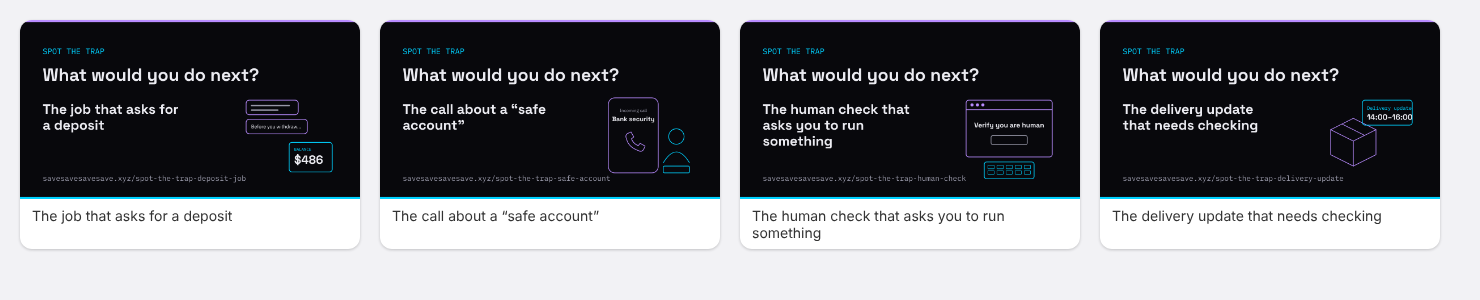
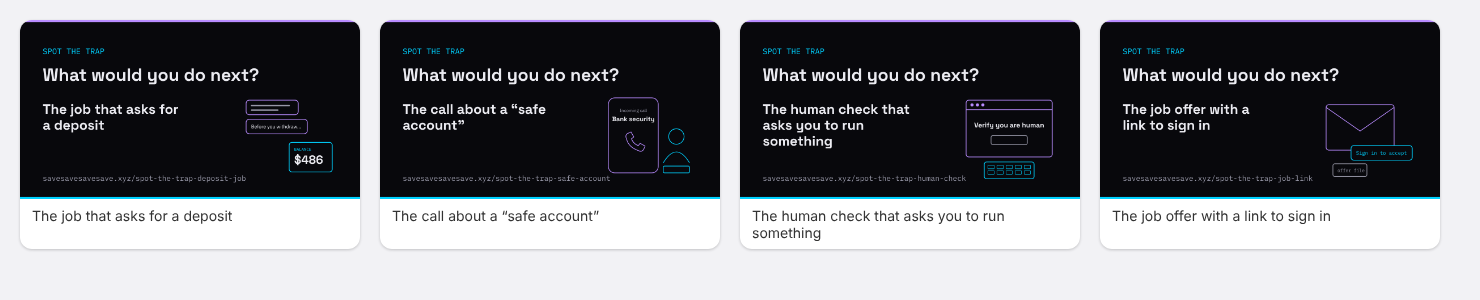
Spot the Trap: replace delivery-update with job-link draft; drop example labels
New scenario awaits content approval (release gate blocks it). Old URL
redirects to the challenge list.

Claude-Session: https://claude.ai/code/session_013DTXsHHSpZCGCiuNQZgPYL

Changed region(s): [[0.8703, 0.33, 0.9635, 0.6], [0.7459, 0.33, 0.8703, 0.45], [0.7459, 0.69, 0.9324, 0.75]]

diff --git a/spot-the-trap-job-link.html b/spot-the-trap-job-link.html
@@ -13,34 +13,34 @@
 <meta http-equiv="Content-Security-Policy" content="default-src 'self'; script-src 'self'; style-src 'self' 'unsafe-inline'; font-src 'self'; img-src 'self' data:; connect-src 'none'; base-uri 'self'; form-action 'none'; frame-src 'none';">
 <meta name="viewport" content="width=device-width, initial-scale=1.0">
 <meta name="author" content="Stefan Tsezarov">
-<meta name="description" content="Spot the Trap: The delivery update that needs checking. Read an invented message, choose your next step, then see the explanation.">
-<title>The delivery update that needs checking — Spot the Trap — SaveSaveSaveSave</title>
-<link rel="canonical" href="https://savesavesavesave.xyz/spot-the-trap-delivery-update">
+<meta name="description" content="Spot the Trap: The job offer with a link to sign in. Read an invented message, choose your next step, then see the explanation.">
+<title>The job offer with a link to sign in — Spot the Trap — SaveSaveSaveSave</title>
+<link rel="canonical" href="https://savesavesavesave.xyz/spot-the-trap-job-link">
 <!-- SEO:BEGIN — generated by seo.js, do not edit by hand -->
 <meta property="og:type" content="website">
 <meta property="og:site_name" content="SaveSaveSaveSave">
 <meta property="og:locale" content="en">
-<meta property="og:url" content="https://savesavesavesave.xyz/spot-the-trap-delivery-update">
-<meta property="og:title" content="The delivery update that needs checking — Spot the Trap">
-<meta property="og:description" content="Spot the Trap: The delivery update that needs checking. Read an invented message, choose your next step, then see the explanation.">
-<meta property="og:image" content="https://savesavesavesave.xyz/spot-the-trap-delivery-update.png">
+<meta property="og:url" content="https://savesavesavesave.xyz/spot-the-trap-job-link">
+<meta property="og:title" content="The job offer with a link to sign in — Spot the Trap">
+<meta property="og:description" content="Spot the Trap: The job offer with a link to sign in. Read an invented message, choose your next step, then see the explanation.">
+<meta property="og:image" content="https://savesavesavesave.xyz/spot-the-trap-job-link.png">
 <meta property="og:image:width" content="1200">
 <meta property="og:image:height" content="630">
-<meta property="og:image:alt" content="Would you spot the trap? The delivery update that needs checking">
+<meta property="og:image:alt" content="Would you spot the trap? The job offer with a link to sign in">
 <meta name="twitter:card" content="summary_large_image">
-<meta name="twitter:title" content="The delivery update that needs checking — Spot the Trap">
-<meta name="twitter:description" content="Spot the Trap: The delivery update that needs checking. Read an invented message, choose your next step, then see the explanation.">
-<meta name="twitter:image" content="https://savesavesavesave.xyz/spot-the-trap-delivery-update.png">
+<meta name="twitter:title" content="The job offer with a link to sign in — Spot the Trap">
+<meta name="twitter:description" content="Spot the Trap: The job offer with a link to sign in. Read an invented message, choose your next step, then see the explanation.">
+<meta name="twitter:image" content="https://savesavesavesave.xyz/spot-the-trap-job-link.png">
 <script type="application/ld+json">
 {
   "@context": "https://schema.org",
   "@graph": [
     {
       "@type": "WebPage",
-      "@id": "https://savesavesavesave.xyz/spot-the-trap-delivery-update#page",
-      "name": "The delivery update that needs checking — Spot the Trap",
-      "description": "Spot the Trap: The delivery update that needs checking. Read an invented message, choose your next step, then see the explanation.",
-      "url": "https://savesavesavesave.xyz/spot-the-trap-delivery-update",
+      "@id": "https://savesavesavesave.xyz/spot-the-trap-job-link#page",
+      "name": "The job offer with a link to sign in — Spot the Trap",
+      "description": "Spot the Trap: The job offer with a link to sign in. Read an invented message, choose your next step, then see the explanation.",
+      "url": "https://savesavesavesave.xyz/spot-the-trap-job-link",
       "inLanguage": "en",
       "datePublished": "2026-10-21",
       "dateModified": "2026-10-21",
@@ -61,7 +61,7 @@
     },
     {
       "@type": "BreadcrumbList",
-      "@id": "https://savesavesavesave.xyz/spot-the-trap-delivery-update#breadcrumb",
+      "@id": "https://savesavesavesave.xyz/spot-the-trap-job-link#breadcrumb",
       "itemListElement": [
         {
           "@type": "ListItem",
@@ -72,7 +72,7 @@
         {
           "@type": "ListItem",
           "position": 2,
-          "name": "Spot the Trap: The delivery update that needs checking"
+          "name": "Spot the Trap: The job offer with a link to sign in"
         }
       ]
     }
@@ -152,22 +152,22 @@
 <div class="paper-wrap">
   <article class="paper">
     <p class="eyebrow">Spot the Trap · Challenge 4 of 4</p>
-    <h1 class="title">The delivery update that needs checking</h1>
-    <p class="stt-scene">You are expecting a parcel today. A delivery update arrives by text.</p>
+    <h1 class="title">The job offer with a link to sign in</h1>
+    <p class="stt-scene">You have been applying for jobs online. An email arrives from a recruiter you do not recognise.</p>
 
-    <section class="stt-example" aria-labelledby="stt-ex-label">
-      <p class="stt-label" id="stt-ex-label">Invented message · Text message</p>
+    <section class="stt-example" aria-label="The message">
       <div class="stt-message" id="stt-message">
-      <div class="stt-bubble"><p class="stt-from">Delivery update</p><p>Your parcel is due today between 14:00 and 16:00. Tracking reference: EXAMPLE-2048. You can check its progress in the delivery app.</p></div>
+      <div class="stt-bubble"><p class="stt-from">Talent team</p><p>Congratulations! <span class="sign">You have been selected for a remote assistant role, no interview needed.<sup class="sign-n" hidden>1</sup></span> <span class="sign">To accept, sign in at hr-onboarding.example/start with your email address and email password.<sup class="sign-n" hidden>2</sup></span> <span class="sign">Then download and open the attached offer file.<sup class="sign-n" hidden>3</sup></span> <span class="sign">Add your bank card details so we can set up your first salary payment.<sup class="sign-n" hidden>4</sup></span> <span class="sign">This offer expires in 24 hours.<sup class="sign-n" hidden>5</sup></span></p></div>
       </div>
     </section>
 
     <form class="stt-form" id="stt-form" action="#" novalidate>
       <fieldset>
         <legend>What would you do next?</legend>
-        <label class="stt-opt"><input type="radio" name="stt-choice" value="A"> <span><span class="stt-key">A.</span> Assume it is fake because delivery messages are often scams.</span></label>
-        <label class="stt-opt"><input type="radio" name="stt-choice" value="B"> <span><span class="stt-key">B.</span> Open the delivery app I already use and compare the tracking details with my order.</span></label>
-        <label class="stt-opt"><input type="radio" name="stt-choice" value="C"> <span><span class="stt-key">C.</span> Reply with my address to confirm the delivery.</span></label>
+        <label class="stt-opt"><input type="radio" name="stt-choice" value="A"> <span><span class="stt-key">A.</span> Follow the link and sign in to secure the job.</span></label>
+        <label class="stt-opt"><input type="radio" name="stt-choice" value="B"> <span><span class="stt-key">B.</span> Open the attachment first to read the offer.</span></label>
+        <label class="stt-opt"><input type="radio" name="stt-choice" value="C"> <span><span class="stt-key">C.</span> Reply and ask the recruiter whether the link is safe.</span></label>
+        <label class="stt-opt"><input type="radio" name="stt-choice" value="D"> <span><span class="stt-key">D.</span> Leave the link and attachment alone, and check the role on the company website I find myself.</span></label>
       </fieldset>
       <div class="stt-reveal-row">
         <button type="button" class="stt-btn" id="stt-reveal">See the explanation</button>
@@ -179,38 +179,45 @@
     <div class="stt-verdict" id="stt-verdict">
       <h2 id="stt-expl-heading" tabindex="-1">Your answer</h2>
       <div class="stt-yours" id="stt-your-choice"></div>
-      <div class="rule-box"><p><strong>Next time:</strong> Check an ordinary-looking message too. You do not have to decide whether it is genuine from its appearance alone.</p></div>
+      <div class="rule-box"><p><strong>Next time:</strong> Do not click links, open attachments or share passwords or card details from a job offer until you have checked the employer yourself.</p></div>
     </div>
     <p class="sr-only" id="stt-change-status" role="status" aria-live="polite"></p>
     <details class="stt-more">
       <summary>Each option explained</summary>
     <ul class="stt-options">
-      <li data-key="A" data-recommended="false" data-choice="Assume it is fake because delivery messages are often scams." data-feedback="There is not enough here to decide that. Looking ordinary does not verify a message, and arriving by text does not make it fraudulent."><strong>A:</strong> There is not enough here to decide that. Looking ordinary does not verify a message, and arriving by text does not make it fraudulent.</li>
-      <li data-key="B" data-recommended="true" data-choice="Open the delivery app I already use and compare the tracking details with my order." data-feedback="Check the order through a channel you already use. Matching details can confirm the delivery update; a new payment or information request still needs its own check."><strong>B — recommended:</strong> Check the order through a channel you already use. Matching details can confirm the delivery update; a new payment or information request still needs its own check.</li>
-      <li data-key="C" data-recommended="false" data-choice="Reply with my address to confirm the delivery." data-feedback="The message has not established who would receive your reply. Use the delivery company&#39;s established channel instead."><strong>C:</strong> The message has not established who would receive your reply. Use the delivery company&#39;s established channel instead.</li>
+      <li data-key="A" data-recommended="false" data-choice="Follow the link and sign in to secure the job." data-feedback="A sign-in page reached from an unexpected message can be a copy built to capture your password. A job offer does not make the link safe."><strong>A:</strong> A sign-in page reached from an unexpected message can be a copy built to capture your password. A job offer does not make the link safe.</li>
+      <li data-key="B" data-recommended="false" data-choice="Open the attachment first to read the offer." data-feedback="An attachment from a sender you have not verified can install malware. Opening it gives the sender what they want before you know who they are."><strong>B:</strong> An attachment from a sender you have not verified can install malware. Opening it gives the sender what they want before you know who they are.</li>
+      <li data-key="C" data-recommended="false" data-choice="Reply and ask the recruiter whether the link is safe." data-feedback="The sender cannot confirm their own link. Any reassurance comes from the same unverified source."><strong>C:</strong> The sender cannot confirm their own link. Any reassurance comes from the same unverified source.</li>
+      <li data-key="D" data-recommended="true" data-choice="Leave the link and attachment alone, and check the role on the company website I find myself." data-feedback="Check through a route you find yourself. A real employer will still have the role, or a way to reach the recruiter, there."><strong>D — recommended:</strong> Check through a route you find yourself. A real employer will still have the role, or a way to reach the recruiter, there.</li>
     </ul>
     </details>
     <details class="stt-more">
-      <summary>What to check</summary>
-    <p>You were expecting a parcel, the message requests no payment, and it offers no link to follow. Those details make the update plausible. They do not verify its sender. The next step is comparison with your actual order.</p>
+      <summary>Details to notice</summary>
+    <ol class="stt-details">
+      <li>A job offered without an interview or any checking of you needs checking itself.</li>
+      <li>The link asks for your email password, which no employer needs.</li>
+      <li>An unexpected attachment can carry malware.</li>
+      <li>Card details are requested before you have verified the employer.</li>
+      <li>The short deadline discourages time to check.</li>
+    </ol>
     </details>
     <details class="stt-more">
       <summary>About this pattern</summary>
-    <p>FTC guidance covers fake delivery notifications and recommends contacting a company through a known website or phone number. It does not authenticate this invented notice. <a href="https://consumer.ftc.gov/articles/how-recognize-and-report-spam-text-messages" rel="noopener noreferrer">FTC: Recognising and reporting spam texts</a></p>
+    <p>The FTC explains how phishing messages use links and attachments to steal passwords and account details, and how to check a message through a source you trust. <a href="https://consumer.ftc.gov/articles/how-recognize-avoid-phishing-scams" rel="noopener noreferrer">FTC: How to recognize and avoid phishing scams</a></p>
     <p>The source documents the technique, not this invented example.</p>
-    <p class="stt-review">Version 1 · content last reviewed <time datetime="2026-10-21">21 October 2026</time></p>
+    <p class="stt-review">Version 1 · Draft — awaiting content review</p>
     <p>Have a message of your own? <a href="index.html">The message checker</a> looks for specific warning patterns. It cannot confirm who sent it or whether a request is genuine.</p>
     </details>
     </section>
-    <p class="stt-learn"><a class="stt-btn stt-learn-btn" href="https://www.google.com/search?q=fake+delivery+text+message+scam" target="_blank" rel="noopener noreferrer">Learn more: search “fake delivery text message scam”</a><br><span class="stt-learn-note">Opens a Google search in a new tab. Results are not checked by this site.</span></p>
+    <p class="stt-learn"><a class="stt-btn stt-learn-btn" href="https://www.google.com/search?q=job+offer+phishing+link+scam" target="_blank" rel="noopener noreferrer">Learn more: search “job offer phishing link scam”</a><br><span class="stt-learn-note">Opens a Google search in a new tab. Results are not checked by this site.</span></p>
   </article>
   <section class="paper stt-share" id="stt-share-section" aria-labelledby="stt-share-heading" hidden>
     <h2 id="stt-share-heading">Share or try another</h2>
     <div class="stt-share-row">
-      <button type="button" class="stt-btn" id="stt-share" data-url="https://savesavesavesave.xyz/spot-the-trap-delivery-update" data-text="Would you spot the trap?
-The delivery update that needs checking
+      <button type="button" class="stt-btn" id="stt-share" data-url="https://savesavesavesave.xyz/spot-the-trap-job-link" data-text="Would you spot the trap?
+The job offer with a link to sign in
 Try the challenge at SaveSaveSaveSave.">Share this challenge</button>
-      <a href="spot-the-trap-delivery-update.png" download>Download the card</a>
+      <a href="spot-the-trap-job-link.png" download>Download the card</a>
       <span id="stt-share-status" aria-live="polite"></span>
     </div>
     <p>Next: <a href="spot-the-trap-deposit-job.html">The job that asks for a deposit</a> · <a href="spot-the-trap.html">All challenges</a></p>

diff --git a/challenges.js b/challenges.js
@@ -129,33 +129,42 @@ const CHALLENGES = [
     approvedHash: '4e9b8f911420d57c',
   },
   {
-    id: 'delivery-update',
+    id: 'job-link',
     version: 1,
-    title: 'The delivery update that needs checking',
-    channel: 'Text message',
-    scene: 'You are expecting a parcel today. A delivery update arrives by text.',
+    title: 'The job offer with a link to sign in',
+    channel: 'Email',
+    scene: 'You have been applying for jobs online. An email arrives from a recruiter you do not recognise.',
     exchangeLabel: 'Invented message',
+    // The address is written as plain text on a .example domain. The page
+    // never makes it a link (challenge.test.js checks).
     messages: [
-      { from: 'Delivery update', parts: ['Your parcel is due today between 14:00 and 16:00. Tracking reference: EXAMPLE-2048. You can check its progress in the delivery app.'] },
+      { from: 'Talent team', parts: ['Congratulations! ', { mark: 1, text: 'You have been selected for a remote assistant role, no interview needed.' }, ' ', { mark: 2, text: 'To accept, sign in at hr-onboarding.example/start with your email address and email password.' }, ' ', { mark: 3, text: 'Then download and open the attached offer file.' }, ' ', { mark: 4, text: 'Add your bank card details so we can set up your first salary payment.' }, ' ', { mark: 5, text: 'This offer expires in 24 hours.' }] },
     ],
     choices: [
-      { key: 'A', text: 'Assume it is fake because delivery messages are often scams.', feedback: 'There is not enough here to decide that. Looking ordinary does not verify a message, and arriving by text does not make it fraudulent.' },
-      { key: 'B', text: 'Open the delivery app I already use and compare the tracking details with my order.', recommended: true, feedback: 'Check the order through a channel you already use. Matching details can confirm the delivery update; a new payment or information request still needs its own check.' },
-      { key: 'C', text: 'Reply with my address to confirm the delivery.', feedback: "The message has not established who would receive your reply. Use the delivery company's established channel instead." },
+      { key: 'A', text: 'Follow the link and sign in to secure the job.', feedback: 'A sign-in page reached from an unexpected message can be a copy built to capture your password. A job offer does not make the link safe.' },
+      { key: 'B', text: 'Open the attachment first to read the offer.', feedback: 'An attachment from a sender you have not verified can install malware. Opening it gives the sender what they want before you know who they are.' },
+      { key: 'C', text: 'Reply and ask the recruiter whether the link is safe.', feedback: 'The sender cannot confirm their own link. Any reassurance comes from the same unverified source.' },
+      { key: 'D', text: 'Leave the link and attachment alone, and check the role on the company website I find myself.', recommended: true, feedback: 'Check through a route you find yourself. A real employer will still have the role, or a way to reach the recruiter, there.' },
     ],
-    detailsHeading: 'What to check',
-    details: [],
-    note: 'You were expecting a parcel, the message requests no payment, and it offers no link to follow. Those details make the update plausible. They do not verify its sender. The next step is comparison with your actual order.',
-    remember: 'Check an ordinary-looking message too. You do not have to decide whether it is genuine from its appearance alone.',
+    detailsHeading: 'Details to notice',
+    details: [
+      'A job offered without an interview or any checking of you needs checking itself.',
+      'The link asks for your email password, which no employer needs.',
+      'An unexpected attachment can carry malware.',
+      'Card details are requested before you have verified the employer.',
+      'The short deadline discourages time to check.',
+    ],
+    note: null,
+    remember: 'Do not click links, open attachments or share passwords or card details from a job offer until you have checked the employer yourself.',
     source: {
-      text: 'FTC guidance covers fake delivery notifications and recommends contacting a company through a known website or phone number. It does not authenticate this invented notice.',
-      label: 'FTC: Recognising and reporting spam texts',
-      url: 'https://consumer.ftc.gov/articles/how-recognize-and-report-spam-text-messages',
+      text: 'The FTC explains how phishing messages use links and attachments to steal passwords and account details, and how to check a message through a source you trust.',
+      label: 'FTC: How to recognize and avoid phishing scams',
+      url: 'https://consumer.ftc.gov/articles/how-recognize-avoid-phishing-scams',
     },
-    // Approved by Stefan on 21 October 2026 (content and source). The hash
-    // is the wording approved; any material change needs a new review.
-    reviewed: '2026-10-21',
-    approvedHash: 'c49bcfe464ba5faf',
+    // Draft. Not approved: a release build refuses to run until Stefan
+    // reviews this scenario and its source.
+    reviewed: null,
+    approvedHash: null,
   },
 ];
 

diff --git a/guide-examples.test.js b/guide-examples.test.js
@@ -570,7 +570,7 @@ if (fs.existsSync(guidePath)) {
     'privacy.html', 'terms.html', 'honeypot-tokens.html', 'invisible-characters.html',
     'prompt-injection.html', 'seed-phrase-phishing.html', 'disguised-links.html',
     'sanctioned-addresses.html', 'address-poisoning.html', 'ai-leftovers.html', 'agent-second-opinion.html', 'support.html', 'tools.html', 'agents.html', 'about.html',
-    'spot-the-trap.html', 'spot-the-trap-deposit-job.html', 'spot-the-trap-safe-account.html', 'spot-the-trap-human-check.html', 'spot-the-trap-delivery-update.html'];
+    'spot-the-trap.html', 'spot-the-trap-deposit-job.html', 'spot-the-trap-safe-account.html', 'spot-the-trap-human-check.html', 'spot-the-trap-job-link.html'];
 
   for (const f of SUBPAGES) {
     const fp = path.join(__dirname, f);
@@ -668,7 +668,7 @@ if (fs.existsSync(guidePath)) {
       'privacy.html', 'terms.html', 'honeypot-tokens.html', 'invisible-characters.html',
       'prompt-injection.html', 'seed-phrase-phishing.html', 'disguised-links.html',
     'sanctioned-addresses.html', 'address-poisoning.html', 'ai-leftovers.html', 'agent-second-opinion.html', 'support.html', 'tools.html', 'agents.html', 'about.html',
-    'spot-the-trap.html', 'spot-the-trap-deposit-job.html', 'spot-the-trap-safe-account.html', 'spot-the-trap-human-check.html', 'spot-the-trap-delivery-update.html'];
+    'spot-the-trap.html', 'spot-the-trap-deposit-job.html', 'spot-the-trap-safe-account.html', 'spot-the-trap-human-check.html', 'spot-the-trap-job-link.html'];
     const referenced = new Set();
     for (const f of PAGES) {
       const fp = path.join(__dirname, f);
@@ -728,7 +728,7 @@ if (fs.existsSync(guidePath)) {
     'privacy.html', 'terms.html', 'honeypot-tokens.html', 'invisible-characters.html',
     'prompt-injection.html', 'seed-phrase-phishing.html', 'disguised-links.html',
     'sanctioned-addresses.html', 'address-poisoning.html', 'ai-leftovers.html', 'agent-second-opinion.html', 'support.html', 'tools.html', 'agents.html', 'about.html',
-    'spot-the-trap.html', 'spot-the-trap-deposit-job.html', 'spot-the-trap-safe-account.html', 'spot-the-trap-human-check.html', 'spot-the-trap-delivery-update.html'];
+    'spot-the-trap.html', 'spot-the-trap-deposit-job.html', 'spot-the-trap-safe-account.html', 'spot-the-trap-human-check.html', 'spot-the-trap-job-link.html'];
 
   for (const f of PAGES) {
     const fp = path.join(__dirname, f);

diff --git a/challenge.test.js b/challenge.test.js
@@ -30,7 +30,7 @@ const marksOf = (c) => c.messages.flatMap(m => [m.from].concat(m.parts)).filter(
 const BRANDS = /\b(binance|coinbase|metamask|paypal|dhl|ups|fedex|amazon|microsoft|google|apple|whatsapp|telegram|revolut|wise|visa|mastercard|hsbc|barclays|chase|dsk|unicredit|fibank|ftc)\b/i;
 
 console.log('== Scenario content ==');
-check('there are four starter scenarios', CHALLENGES.length === 4, String(CHALLENGES.length));
+check('there are four scenarios', CHALLENGES.length === 4, String(CHALLENGES.length));
 check('ids are unique', new Set(CHALLENGES.map(c => c.id)).size === CHALLENGES.length);
 for (const c of CHALLENGES) {
   const id = c.id;
@@ -59,10 +59,6 @@ for (const c of CHALLENGES) {
 }
 check('the recommended answer is not always in the same position',
   new Set(CHALLENGES.map(c => c.choices.find(x => x.recommended).key)).size > 1);
-check('at least one ordinary-looking round with nothing to highlight',
-  CHALLENGES.some(c => c.details.length === 0 && marksOf(c).length === 0));
-check('the ordinary-looking round is not called genuine',
-  CHALLENGES.filter(c => c.details.length === 0).every(c => !/\bgenuine\b/i.test(c.title + c.scene + c.exchangeLabel)));
 
 console.log('\n== Generated pages ==');
 let upToDate = true;
@@ -178,6 +174,8 @@ for (const f of pages) {
 console.log('\n== Layout: verdict, collapsible detail, learn more ==');
 for (const c of CHALLENGES) {
   const h = read('spot-the-trap-' + c.id + '.html');
+  check(c.id + ': no "Invented …" label above the message', !h.includes(c.exchangeLabel + ' · '));
+  check(c.id + ': no web address in the message is a link', !/<a [^>]*href="[^"]*\.example/.test(h));
   check(c.id + ': details and source are collapsed by default',
     /<details class="stt-more">\s*<summary>About this pattern<\/summary>/.test(h) && !/<details[^>]* open/.test(h)
     && h.includes('<summary>' + c.detailsHeading + '</summary>'));

diff --git a/spot-the-trap-human-check.html b/spot-the-trap-human-check.html
@@ -155,8 +155,7 @@
     <h1 class="title">The human check that asks you to run something</h1>
     <p class="stt-scene">You follow a link to a document. Before it opens, a page displays these instructions.</p>
 
-    <section class="stt-example" aria-labelledby="stt-ex-label">
-      <p class="stt-label" id="stt-ex-label">Invented page — illustration only. Do not follow these steps. · Web page</p>
+    <section class="stt-example" aria-label="The message">
       <div class="stt-message" id="stt-message">
       <div class="stt-bubble"><p class="stt-from">Verify you are human</p><p><span class="sign">Open Windows Run using Windows + R.<sup class="sign-n" hidden>1</sup></span> <span class="sign">Paste using Ctrl + V, then press Enter.<sup class="sign-n" hidden>2</sup></span></p></div>
       <div class="stt-bubble"><p>Verification reference: 88412. <span class="sign">Complete this step to continue.<sup class="sign-n" hidden>3</sup></span></p></div>
@@ -219,7 +218,7 @@ Try the challenge at SaveSaveSaveSave.">Share this challenge</button>
       <a href="spot-the-trap-human-check.png" download>Download the card</a>
       <span id="stt-share-status" aria-live="polite"></span>
     </div>
-    <p>Next: <a href="spot-the-trap-delivery-update.html">The delivery update that needs checking</a> · <a href="spot-the-trap.html">All challenges</a></p>
+    <p>Next: <a href="spot-the-trap-job-link.html">The job offer with a link to sign in</a> · <a href="spot-the-trap.html">All challenges</a></p>
   </section>
 </div>
 

diff --git a/apply-ads.js b/apply-ads.js
@@ -89,7 +89,7 @@ const AD_POLICY = {
   'spot-the-trap-deposit-job.html': { enabled: false, reason: 'Spot the Trap challenge. No advertising, analytics or third-party script on pages that teach people to distrust what a message shows them. Decided 21 October 2026.' },
   'spot-the-trap-safe-account.html': { enabled: false, reason: 'Spot the Trap challenge. No advertising, analytics or third-party script on pages that teach people to distrust what a message shows them. Decided 21 October 2026.' },
   'spot-the-trap-human-check.html': { enabled: false, reason: 'Spot the Trap challenge. No advertising, analytics or third-party script on pages that teach people to distrust what a message shows them. Decided 21 October 2026.' },
-  'spot-the-trap-delivery-update.html': { enabled: false, reason: 'Spot the Trap challenge. No advertising, analytics or third-party script on pages that teach people to distrust what a message shows them. Decided 21 October 2026.' },
+  'spot-the-trap-job-link.html': { enabled: false, reason: 'Spot the Trap challenge. No advertising, analytics or third-party script on pages that teach people to distrust what a message shows them. Decided 21 October 2026.' },
 };
 
 const PAGES = Object.keys(AD_POLICY);

diff --git a/seo.js b/seo.js
@@ -69,7 +69,7 @@ const PAGES = {
   'spot-the-trap-deposit-job.html': { type: 'page', crumb: 'Spot the Trap: The job that asks for a deposit', image: 'spot-the-trap-deposit-job.png', imageAlt: 'Would you spot the trap? The job that asks for a deposit' },
   'spot-the-trap-safe-account.html': { type: 'page', crumb: 'Spot the Trap: The call about a safe account', image: 'spot-the-trap-safe-account.png', imageAlt: 'Would you spot the trap? The call about a safe account' },
   'spot-the-trap-human-check.html': { type: 'page', crumb: 'Spot the Trap: The human check that asks you to run something', image: 'spot-the-trap-human-check.png', imageAlt: 'Would you spot the trap? The human check that asks you to run something' },
-  'spot-the-trap-delivery-update.html': { type: 'page', crumb: 'Spot the Trap: The delivery update that needs checking', image: 'spot-the-trap-delivery-update.png', imageAlt: 'Would you spot the trap? The delivery update that needs checking' },
+  'spot-the-trap-job-link.html': { type: 'page', crumb: 'Spot the Trap: The job offer with a link to sign in', image: 'spot-the-trap-job-link.png', imageAlt: 'Would you spot the trap? The job offer with a link to sign in' },
 };
 
 const GUIDE_ORDER = [

diff --git a/live.test.js b/live.test.js
@@ -90,7 +90,7 @@ const ADS_OFF = ['/index.html', '/about.html', '/privacy.html', '/terms.html', '
                  '/prompt-injection.html', '/seed-phrase-phishing.html',
                  '/disguised-links.html', '/sanctioned-addresses.html',
                  '/spot-the-trap.html', '/spot-the-trap-deposit-job.html', '/spot-the-trap-safe-account.html',
-                 '/spot-the-trap-human-check.html', '/spot-the-trap-delivery-update.html'];
+                 '/spot-the-trap-human-check.html', '/spot-the-trap-job-link.html'];
 
 // Must not be reachable. The .git paths are the ones that made an
 // exclusion list decorative; the rest are documents and source that the
@@ -154,7 +154,7 @@ const MUST_404 = [
 
   section('Spot the Trap pages run no third-party code');
   {
-    const SCENARIOS = ['deposit-job', 'safe-account', 'human-check', 'delivery-update'];
+    const SCENARIOS = ['deposit-job', 'safe-account', 'human-check', 'job-link'];
     const pagesStt = ['/spot-the-trap'].concat(SCENARIOS.map(id => '/spot-the-trap-' + id));
     for (const base of pagesStt) {
       for (const p of [base, base + '.html']) {

diff --git a/spot-the-trap.html b/spot-the-trap.html
@@ -164,7 +164,7 @@
       <li><a href="spot-the-trap-deposit-job.html">1. The job that asks for a deposit</a><br>An unexpected chat message offers online work. You decide to hear more. Later, after completing a set of tasks, the recruiter sends another message.</li>
       <li><a href="spot-the-trap-safe-account.html">2. The call about a “safe account”</a><br>A caller says they work for your bank. Your phone displays the bank&#39;s name. During the call, this message arrives.</li>
       <li><a href="spot-the-trap-human-check.html">3. The human check that asks you to run something</a><br>You follow a link to a document. Before it opens, a page displays these instructions.</li>
-      <li><a href="spot-the-trap-delivery-update.html">4. The delivery update that needs checking</a><br>You are expecting a parcel today. A delivery update arrives by text.</li>
+      <li><a href="spot-the-trap-job-link.html">4. The job offer with a link to sign in</a><br>You have been applying for jobs online. An email arrives from a recruiter you do not recognise.</li>
     </ul>
 
     <h2>How to play</h2>

diff --git a/spot-the-trap-safe-account.html b/spot-the-trap-safe-account.html
@@ -155,8 +155,7 @@
     <h1 class="title">The call about a “safe account”</h1>
     <p class="stt-scene">A caller says they work for your bank. Your phone displays the bank&#39;s name. During the call, this message arrives.</p>
 
-    <section class="stt-example" aria-labelledby="stt-ex-label">
-      <p class="stt-label" id="stt-ex-label">Invented message · Text message</p>
+    <section class="stt-example" aria-label="The message">
       <div class="stt-message" id="stt-message">
       <div class="stt-bubble"><p class="stt-from"><span class="sign">Bank security<sup class="sign-n" hidden>4</sup></span></p><p>We have detected suspicious access to your account. <span class="sign">Move your savings to the secure holding account discussed on the phone.<sup class="sign-n" hidden>1</sup></span> Use reference SAFE-4471. <span class="sign">Do this today.<sup class="sign-n" hidden>3</sup></span> <span class="sign">Do not speak to branch staff while the investigation is ongoing.<sup class="sign-n" hidden>2</sup></span></p></div>
       </div>

diff --git a/spot-the-trap-deposit-job.html b/spot-the-trap-deposit-job.html
@@ -155,8 +155,7 @@
     <h1 class="title">The job that asks for a deposit</h1>
     <p class="stt-scene">An unexpected chat message offers online work. You decide to hear more. Later, after completing a set of tasks, the recruiter sends another message.</p>
 
-    <section class="stt-example" aria-labelledby="stt-ex-label">
-      <p class="stt-label" id="stt-ex-label">Invented exchange · Chat</p>
+    <section class="stt-example" aria-label="The message">
       <div class="stt-message" id="stt-message">
       <div class="stt-bubble"><p class="stt-from">Recruiter</p><p><span class="sign">We have remote work rating product images.<sup class="sign-n" hidden>1</sup></span> Around 20 minutes a day. <span class="sign">You could earn $120–$300 daily.<sup class="sign-n" hidden>2</sup></span></p></div>
       <div class="stt-bubble"><p class="stt-from">Recruiter</p><p>Your tasks are complete. <span class="sign">Your balance is now $486.<sup class="sign-n" hidden>3</sup></span></p></div>

diff --git a/build-challenges.js b/build-challenges.js
@@ -179,7 +179,7 @@ const LEARN_MORE = {
   'deposit-job': 'scam and fake job proposals',
   'safe-account': 'safe account bank impersonation scam',
   'human-check': 'fake CAPTCHA verification run command scam',
-  'delivery-update': 'fake delivery text message scam',
+  'job-link': 'job offer phishing link scam',
 };
 const searchOf = c => 'https://www.google.com/search?q=' + encodeURIComponent(LEARN_MORE[c.id]).replace(/%20/g, '+');
 
@@ -200,8 +200,7 @@ function scenarioPage(c, i, existing) {
     <h1 class="title">${esc(c.title)}</h1>
     <p class="stt-scene">${esc(c.scene)}</p>
 
-    <section class="stt-example" aria-labelledby="stt-ex-label">
-      <p class="stt-label" id="stt-ex-label">${esc(c.exchangeLabel)} · ${esc(c.channel)}</p>
+    <section class="stt-example" aria-label="The message">
       <div class="stt-message" id="stt-message">
 ${msgs}
       </div>
